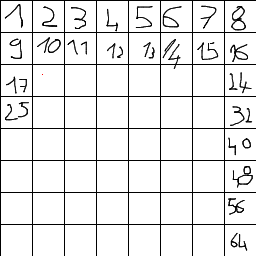
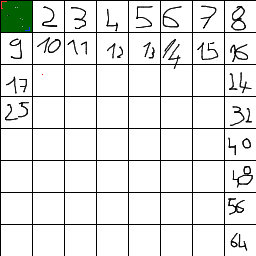
Version 1 - Chargement d'1 terrain à partir d'une image

Changed region(s): [[0.0, 0.0, 0.125, 0.125]]

diff --git a/src/fr/baptistedixneuf/main/game/Jeu.java b/src/fr/baptistedixneuf/main/game/Jeu.java
@@ -9,20 +9,14 @@ public class Jeu {
 	public int[] rgbs;
 
 	public Jeu(){
-		String cheminImage= "res/images.png";	
-		int nbTuilesX=8;
-		int nbTuilesY=8;
+		String cheminImage= "res/spritesheet.png";	
+		int nbTuilesX=16;
+		int nbTuilesY=16;
 		sprite= new Tuile(cheminImage, nbTuilesX,nbTuilesY);
-		image=new Image("res/images.png");
+		image=new Image("res/level_metal.png");
 		rgbs= new int[image.largeur*image.hauteur];
 		rgbs=image.rgbs;
-		for(int i=0; i<rgbs.length; i++){
-			if(rgbs[i]==0xFFff0000){
-				System.out.println("couleur rouge");
-			}else{
-				//System.out.println("autre");
-			}
-		}
+		
 		
 	}
 
@@ -31,9 +25,19 @@ public class Jeu {
 
 
 		GL11.glClear(GL11.GL_COLOR_BUFFER_BIT);
-		for(int x=0; x<8; x++){
+		/*for(int x=0; x<8; x++){
 			for(int y=0; y<8; y++ ){
 				sprite.rendre(x, y,x,y,32);
+			}
+		}*/
+		
+		for(int i=0; i<rgbs.length; i++){
+			int x=i%image.largeur;
+			int y=i/image.largeur; 
+			if(rgbs[i]==0xFF000000){
+				sprite.rendre(0, 0,x,y,32);
+			}else if(rgbs[i]==0xFF0026FF){
+				sprite.rendre(8, 7,x,y,32);
 			}
 		}
 		

diff --git a/src/fr/baptistedixneuf/main/Component.java b/src/fr/baptistedixneuf/main/Component.java
@@ -20,8 +20,8 @@ public class Component {
 
 	public boolean AffichageFenetre = false;
 	public static String title = "Baptiste Dixneuf Jeu 2D";
-	public static int largeur=720;
-	public static int hauteur=480;
+	public static int largeur=1024;
+	public static int hauteur=640;
 	public Jeu jeu;
 
 
